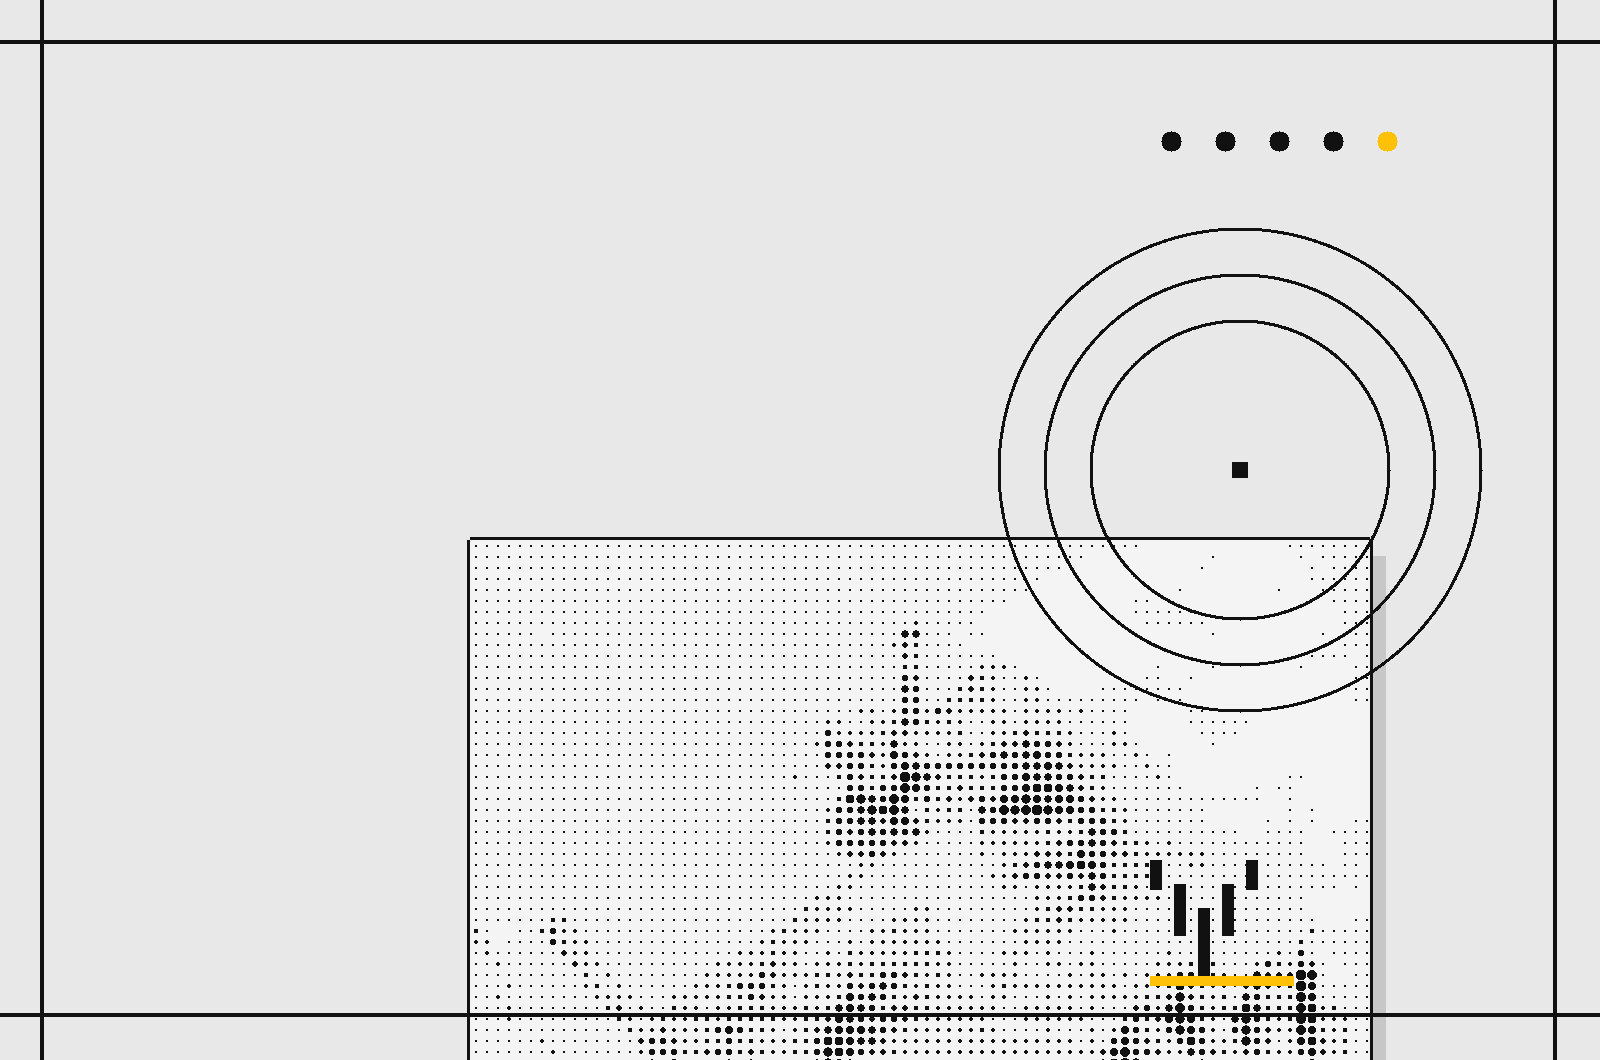
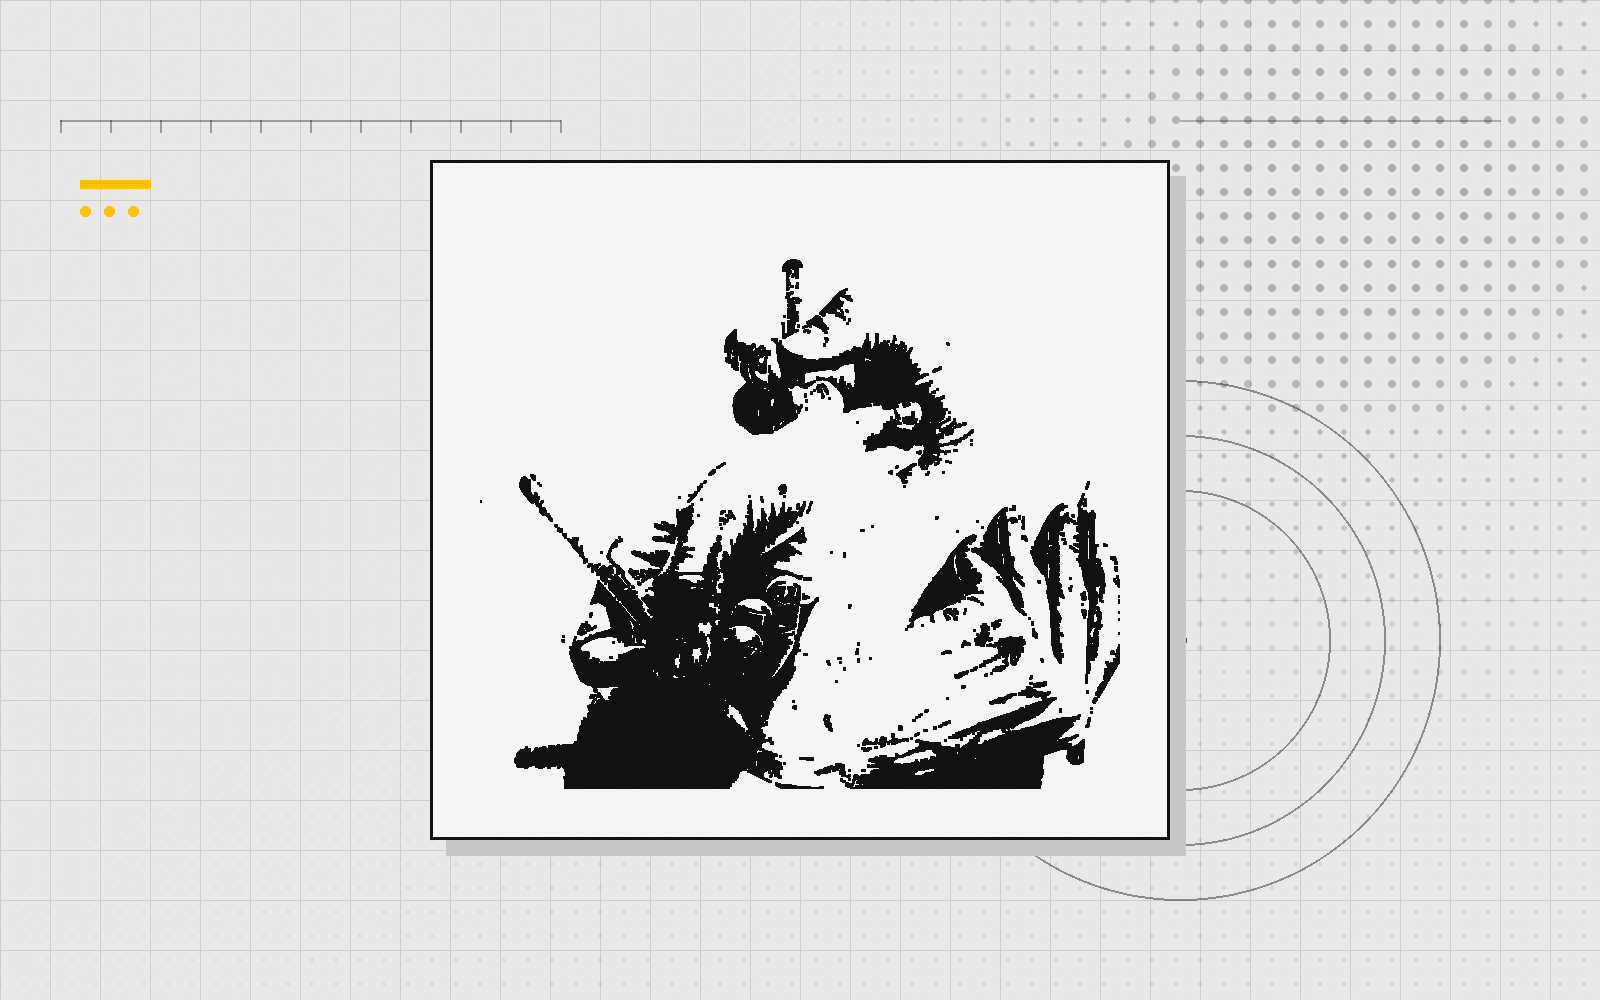
docs(recursive-skill-improvement): the self-drawing hands as a stylised two-tone cutout on the printed plate

diff --git a/docs/fundamentals/node-tools/recursive-skill-improvement/index.md b/docs/fundamentals/node-tools/recursive-skill-improvement/index.md
@@ -22,7 +22,7 @@ It exists because Lion is a living product: components gain APIs, docs gain page
 last quarter quietly stops matching the library. Improvement here means the skill is regenerated from
 its source docs and re-measured against the library, not patched by hand and hoped over.
 
-![a man holding a clamshell phone to his ear, printed as a two-tone halftone plate: ink dots on paper at a regular screen, framed by a thin ink keyline — the face, the furrowed brow and the glare are all that survive the screen, which is the point](./assets/recursive-skill-improvement-hero.png 'The reference photograph as a halftone plate: the 415px source is printed, not enlarged, and the screen makes its resolution a deliberate part of the style')
+![three hands drawing one another in a closed loop — the Escher tribute — cut out as a two-tone ink plate: solid black line work and even ink masses on a paper card, no dot screen, lifted with a hard ink edge and a grey offset shadow onto a technical sheet of fine grid, a halftone field, concentric rings and a ruler scale](./assets/recursive-skill-improvement-hero.png 'The self-drawing hands as a cut-out: the pencil drawing reduced to two even ink tones, pasted on its own paper card over the printed plate the other covers share')
 
 ## The system, the task and the protocol
 
